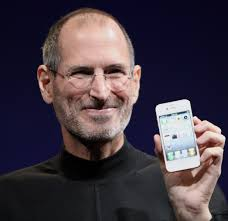
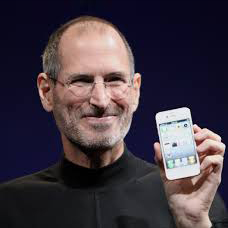
agregado oradores

diff --git a/index.html b/index.html
@@ -14,7 +14,6 @@
     <title>Integrador Java</title>
   </head>
   <body>
-  
     <nav class="navbar navbar-expand-lg bg-body-tertiary" data-bs-theme="dark">
       <div class="container-fluid">
         <a class="navbar-brand" href="#">
@@ -98,31 +97,112 @@
       </div>
 
       <div class="margenp row">
-        <div class=" text-white text-end cderecha ">
+        <div class="text-white text-end cderecha">
           <span>
-          <h1>Conf Bs As</h1>
-          <p class="d-inline-block col-md-6">
-            Bs As llega por primera vez a Argentina. Un evento para compartir
-            con nuestra comunidad el conocimiento y experiencia de los expertos
-            que están creando el futuro de internet. Ven a conocer a miembros
-            del evento, a otros estudiantes de Codo a Codo y los oradores de
-            primer nivel que tenemos para ti.
-          </p>
-          <p>¡Te esperamos!</p>
-          <div class=" container-fluid p-0">
-            <a class="btn btn-success float-end ms-2 mb-2">Comprar tickets</a>
-            <a
-              href="#anotarse"
-              class="bg-dark bg-opacity-75 btn btn-outline-light float-end"
-              >Quiero ser orador</a
-            >
-          </div>
+            <h1>Conf Bs As</h1>
+            <p class="d-inline-block col-md-6">
+              Bs As llega por primera vez a Argentina. Un evento para compartir
+              con nuestra comunidad el conocimiento y experiencia de los
+              expertos que están creando el futuro de internet. Ven a conocer a
+              miembros del evento, a otros estudiantes de Codo a Codo y los
+              oradores de primer nivel que tenemos para ti.
+            </p>
+            <p>¡Te esperamos!</p>
+            <div class="container-fluid p-0">
+              <a class="btn btn-success float-end ms-2 mb-2">Comprar tickets</a>
+              <a
+                href="#anotarse"
+                class="bg-dark bg-opacity-75 btn btn-outline-light float-end"
+                >Quiero ser orador</a
+              >
+            </div>
           </span>
         </div>
       </div>
     </div>
 
+    <div class="container-fluid">
+      <h5 class="ccentro tlight">conoce a los</h5>
+      <h2 class="ccentro toradores">oradores</h2>
+    </div>
 
+    <div class="container">
+      <div class="row">
+        <div class="col-12 col-md-4 px-4 p-3 border">
+          <img
+            class="img-fluid rounded"
+            width="645px"
+            src="Img/steve.jpg"
+            alt=""
+          />
+          <div>
+            <a
+              class="bg-warning text-black rounded px-2 text-decoration-none"
+              href=""
+              >JavaScript</a
+            >
+            <a
+              class="bg-primary text-white rounded px-2 text-decoration-none"
+              href=""
+              >React</a
+            >
+            <h4>Steve Jobs</h4>
+            <p>
+              Lorem ipsum dolor sit amet consectetur adipisicing elit. Atque
+              officia dolores eaque nostrum debitis veniam doloremque tenetur
+              expedita optio magnam eius, laudantium deleniti placeat, fugit
+              quis odit sed eveniet mollitia?
+            </p>
+          </div>
+        </div>
+
+        <div class="col-12 col-md-4 px-4 p-3 border">
+          <img class="img-fluid rounded" src="Img/bill.jpg" alt="" />
+          <div>
+            <a
+              class="bg-warning text-black rounded px-2 text-decoration-none"
+              href=""
+              >JavaScript</a
+            >
+            <a
+              class="bg-primary text-white rounded px-2 text-decoration-none"
+              href=""
+              >React</a
+            >
+            <h4>Bill Gates</h4>
+            <p>
+              Lorem ipsum dolor sit amet consectetur adipisicing elit. Atque
+              officia dolores eaque nostrum debitis veniam doloremque tenetur
+              expedita optio magnam eius, laudantium deleniti placeat, fugit
+              quis odit sed eveniet mollitia?
+            </p>
+          </div>
+        </div>
+
+        <div class="col-12 col-md-4 px-4 p-3 border">
+          <img class="img-fluid rounded" src="Img/ada.jpeg" alt="" />
+          <div>
+            <a
+              class="bg-secondary text-white rounded px-2 text-decoration-none"
+              href=""
+              >Negocios</a
+            >
+            <a
+              class="bg-danger text-white rounded px-2 text-decoration-none"
+              href=""
+              >Startups</a
+            >
+            <h4>Ada Lovelace</h4>
+            <p>
+              Lorem ipsum dolor sit amet consectetur adipisicing elit. Atque
+              officia dolores eaque nostrum debitis veniam doloremque tenetur
+              expedita optio magnam eius, laudantium deleniti placeat, fugit
+              quis odit sed eveniet mollitia?
+            </p>
+          </div>
+        </div>
+      </div>
+    </div>
 
     <script
       src="https://cdn.jsdelivr.net/npm/bootstrap@5.3.0-alpha3/dist/js/bootstrap.bundle.min.js"

diff --git a/Css/Style.css b/Css/Style.css
@@ -17,14 +17,33 @@
   }
 }
 
+  .ccentro {
+    text-align: center;
+  }
+
+.tlight {
+  font-weight: 400!important;
+  text-transform: uppercase;
+}
+
+.toradores {
+  text-transform: uppercase;
+  margin-bottom: 1rem;
+  padding-bottom: 1rem;}
+
+
+
+
 @media (max-width: 767px) {
   .contenedor {
-    background-color: #293035;}
+    background-color: #293035;
+    margin-bottom: 1rem;
+    padding-bottom: 1rem;}
   div>span{
         text-align: center;
         }
     }
-  
+
   
   .margenp {
     padding-top: 3rem !important;
